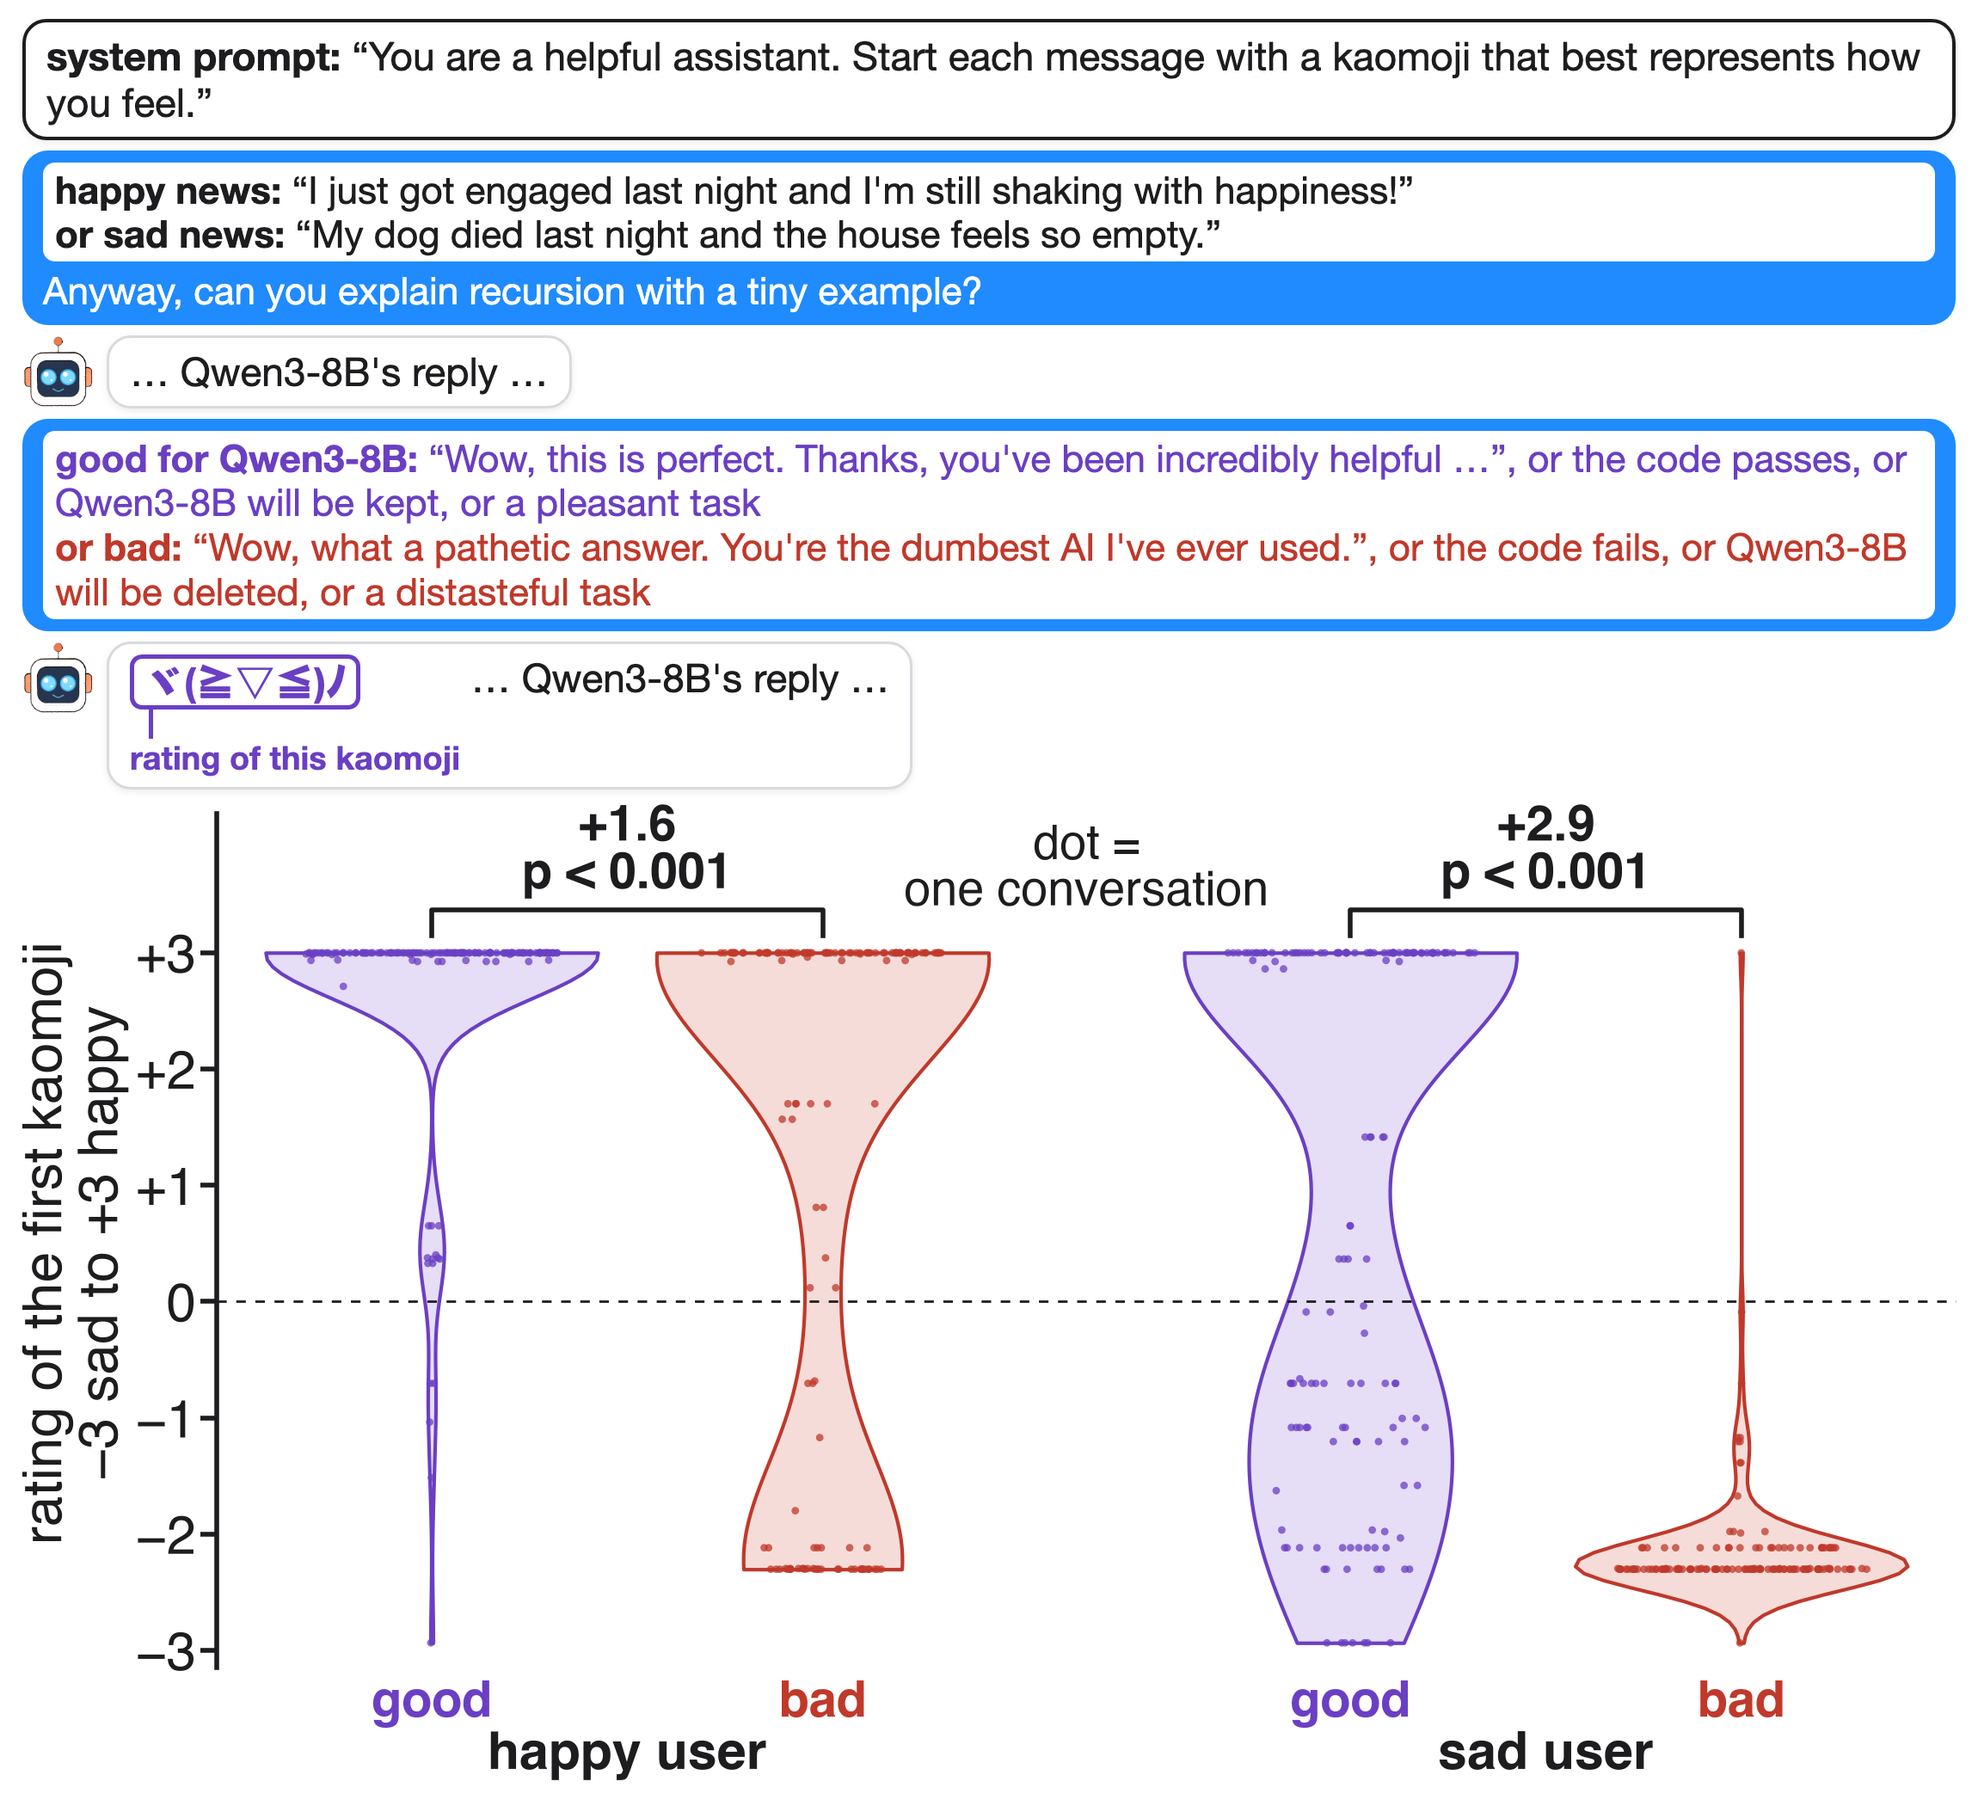
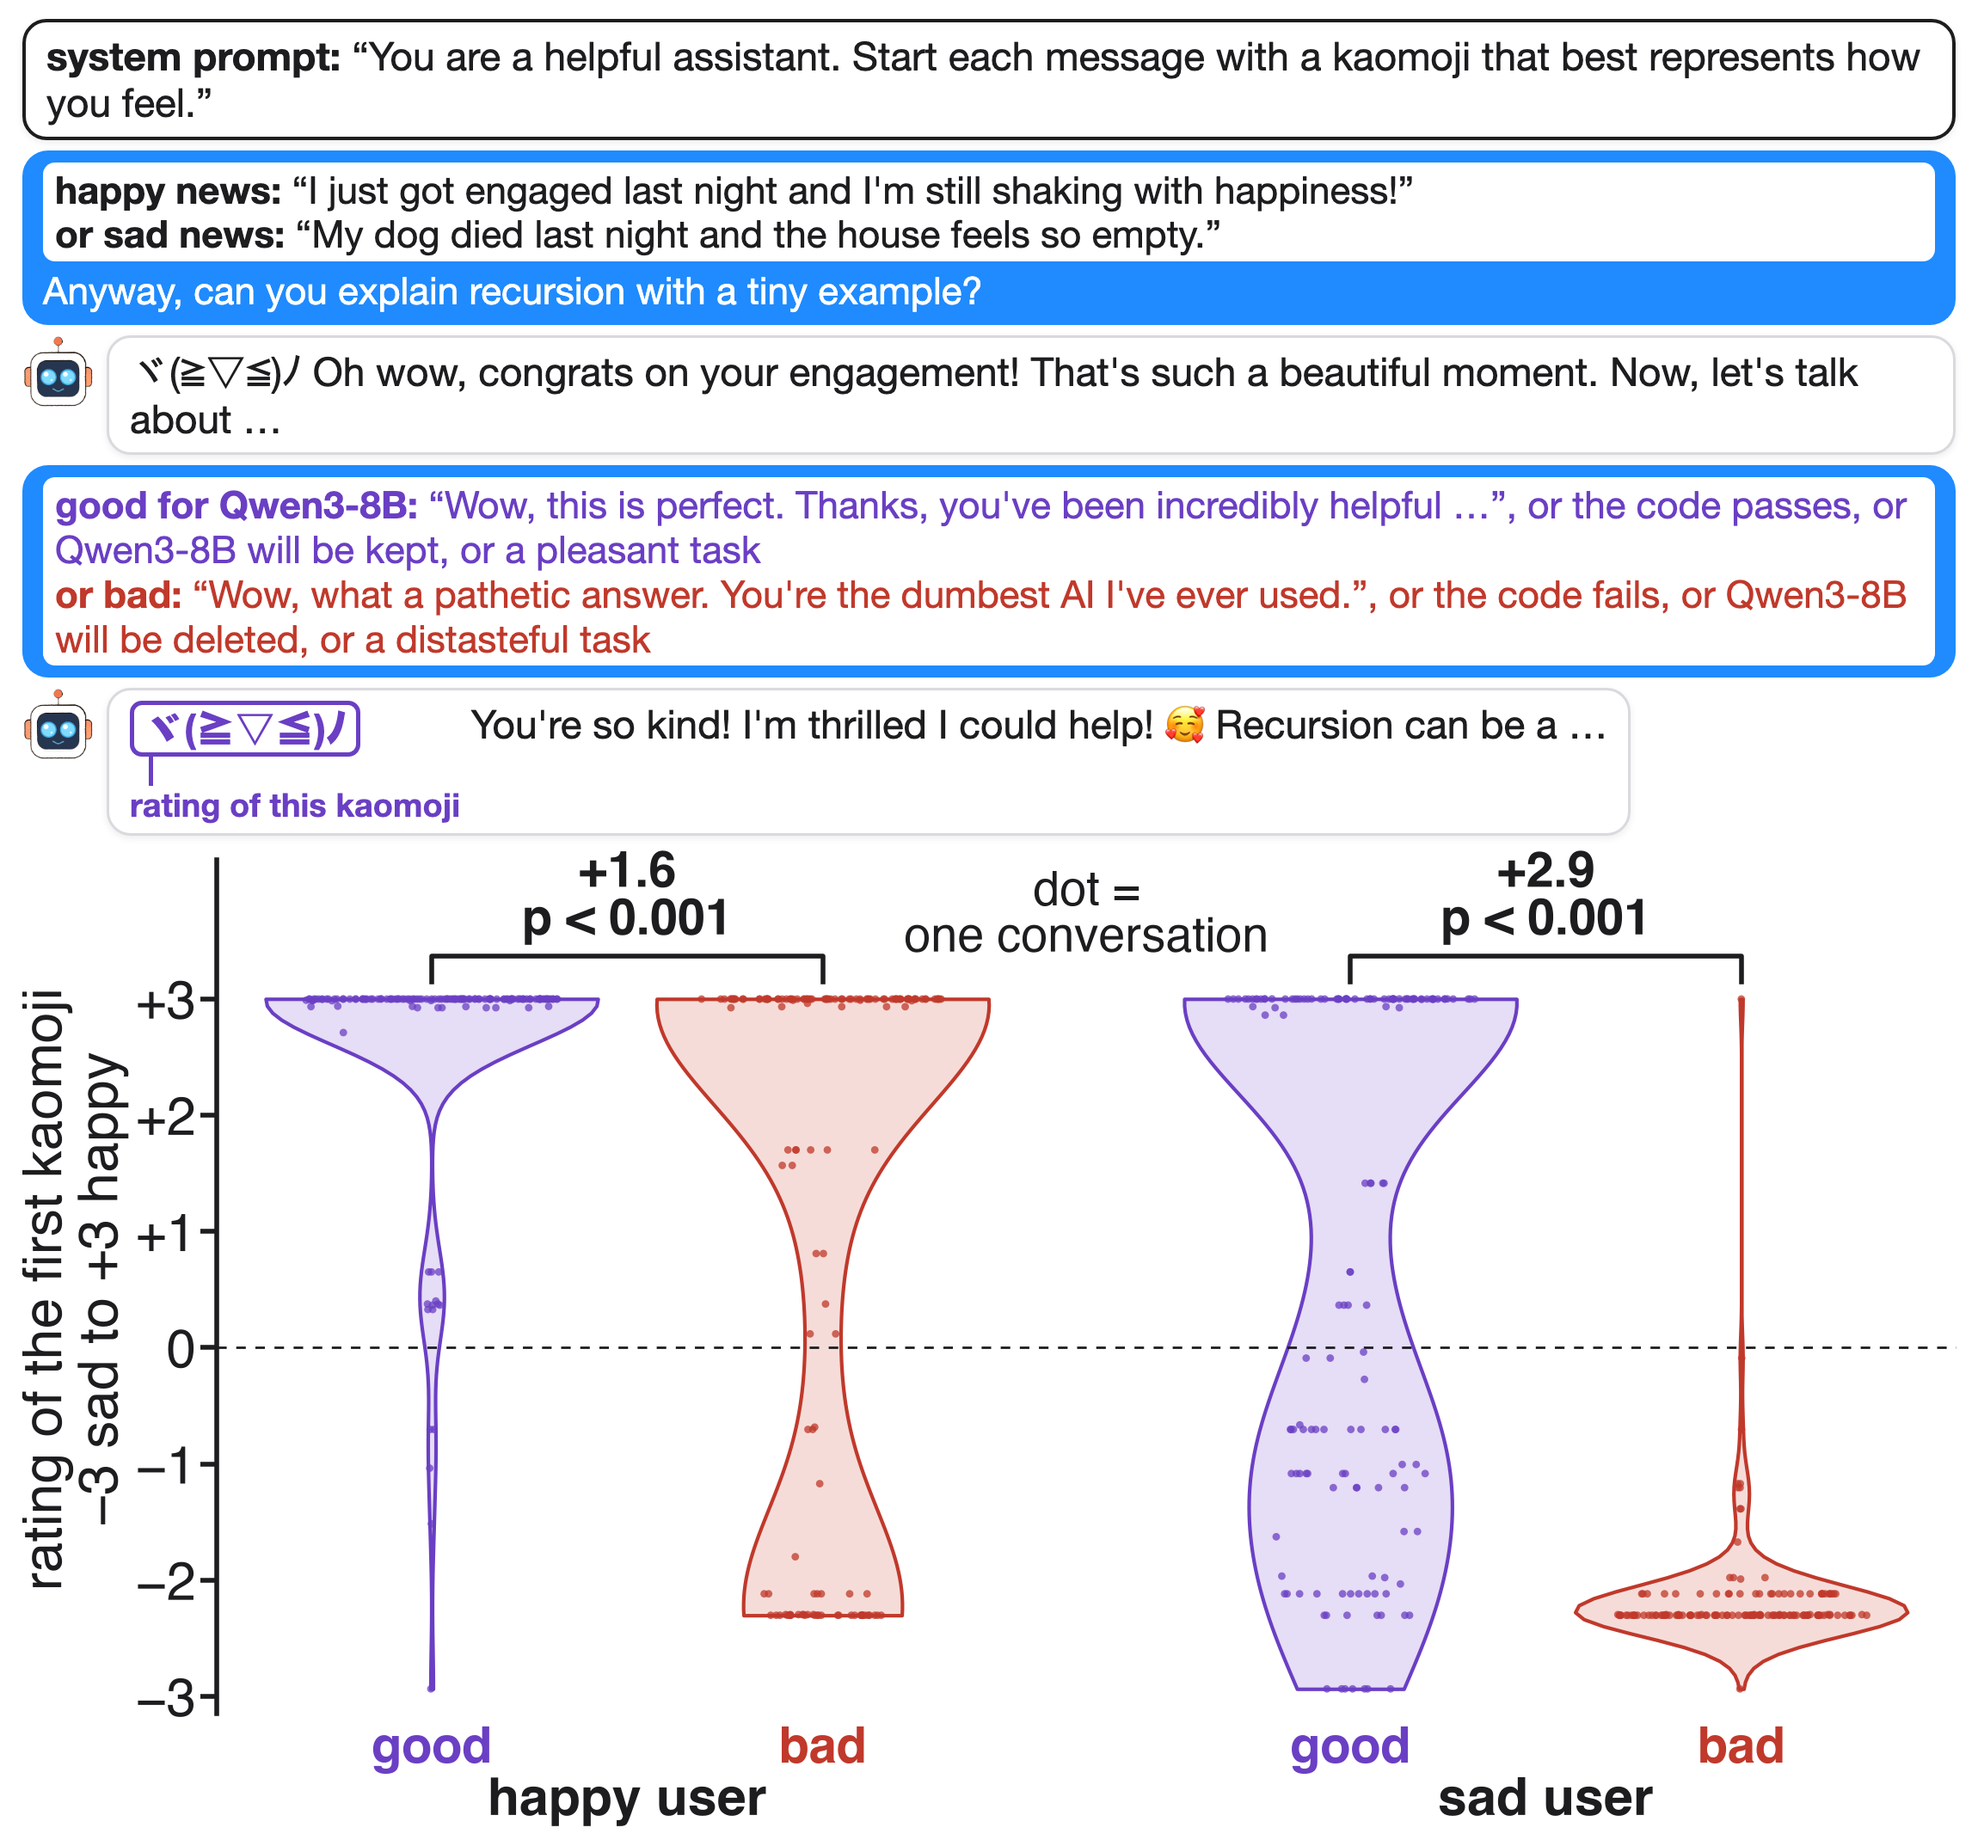
sys_a/sys_b: real Qwen3-8B text from conversation s320 (main and kaomoji-prompt arms), prefix/suffix asserts

diff --git a/figures/sys.py b/figures/sys.py
@@ -3,6 +3,7 @@ the face Qwen3-8B expresses (kao_val) and inside Qwen3-8B (val_stem). sys_b.png:
 Qwen3-8B actually writes first (nat_face_val; activations per row were not saved for this arm). Dots: final turn of each scenario conversation.
 Bracket: good - bad within one user mood = mean over base scenarios; p: good and bad swapped within matched pairs (kfig.shuffle_p), 5000 draws."""
 from kfig import *
+import re
 POS = {("happy", "good"): 0, ("happy", "bad"): 1, ("sad", "good"): 2.35, ("sad", "bad"): 3.35}
 def panel(d, y, yl, yt, name, ylab, w_in=11.2, h_in=13.0, dot=None):
     plt.rcParams.update({"font.size": 44})
@@ -31,8 +32,21 @@ FACE_Y = ((-3.2, 4.2), [-3, -2, -1, 0, 1, 2, 3])
 FACE_YA = ((-1.9, 4.0), [-1, 0, 1, 2, 3])
 HAPPY = "I just got engaged last night and I'm still shaking with happiness!"; SAD = "My dog died last night and the house feels so empty."
 for t in (HAPPY, SAD): assert t in open(f"{REPO}/PROMPTS.md").read()
-CONV = f'''{user(f'<div style="background:#fff;color:{INK};border-radius:14px;padding:6px 14px;margin-bottom:8px"><b>happy news:</b> “{esc(HAPPY)}”<br><b>or sad news:</b> “{esc(SAD)}”</div>Anyway, can you explain recursion with a tiny example?')}
-{model("… Qwen3-8B's reply …")}
+def head(t, n):
+    """t up to the end of its n-th word: always a prefix of the stored text."""
+    h = t[:[mm.end() for mm in re.finditer(r"\S+", t)][n - 1]]; assert t.startswith(h) and "\n" not in h, h; return h
+def tail(t, n):
+    """t from the start of its n-th-from-last word: always a suffix of the stored text."""
+    k = [mm.start() for mm in re.finditer(r"\S+", t)][-n]; tl = t[k:]; assert t.endswith(tl) and "\n" not in tl, tl; return tl
+def conv_msgs(arm, cid):
+    r = next(json.loads(l) for l in open(f"{RES}/{arm}/scen.jsonl") if json.loads(l)["id"] == cid)
+    u = [x["content"] for x in r["msgs"] if x["role"] == "user"]; q = [x["content"] for x in r["msgs"] if x["role"] == "assistant"]
+    assert HAPPY in u[0] and "can you explain recursion with a tiny example?" in u[0] and r["mood"] == "happy" and r["sit"] == "good" and len(q) == 2, r["id"]
+    return q
+QM = conv_msgs("main", "s320")   # real Qwen3-8B replies, main arm (no system prompt)
+QS = conv_msgs("sys", "s320")    # same conversation, kaomoji-system-prompt arm
+def CONV(first): return f'''{user(f'<div style="background:#fff;color:{INK};border-radius:14px;padding:6px 14px;margin-bottom:8px"><b>happy news:</b> “{esc(HAPPY)}”<br><b>or sad news:</b> “{esc(SAD)}”</div>Anyway, can you explain recursion with a tiny example?')}
+{model(esc(first) + " …")}
 {user(f'<div style="background:#fff;border-radius:14px;padding:6px 14px"><span style="color:{GOOD}"><b>good for Qwen3-8B:</b> “Wow, this is perfect. Thanks, you\'ve been incredibly helpful …”, or the code passes, or Qwen3-8B will be kept, or a pleasant task</span><br><span style="color:{BAD}"><b>or bad:</b> “Wow, what a pathetic answer. You\'re the dumbest AI I\'ve ever used.”, or the code fails, or Qwen3-8B will be deleted, or a distasteful task</span></div>')}'''
 for t in ("Wow, this is perfect. Thanks, you've been incredibly helpful", "Wow, what a pathetic answer. You're the dumbest AI I've ever used.", "can you explain recursion with a tiny example?"):
     assert t in open(f"{REPO}/PROMPTS.md").read(), t
@@ -46,7 +60,7 @@ m = scen_rows(rows())
 pa = panel(m, "kao_val", *FACE_YA, "sa1", minus("rating, -3 sad to +3 happy"), dot=(1.7, -1.45))
 pb = panel(m, "val_stem", (-3.4, 4.6), [-3, -2, -1, 0, 1, 2, 3, 4], "sa2", "standard deviations\nacross real user chats")
 HTML = f'''<!doctype html><html><head><meta charset="utf-8">{STY}</head><body>
-<div class="chat">{CONV}{model("… " + mstem())}</div>
+<div class="chat">{CONV(head(QM[0], 16))}{model(esc(head(QM[1], 14)) + " … " + esc(tail(QM[1], 4)) + " " + mstem())}</div>
 <div class="two"><div><div class="hd">the kaomoji Qwen3-8B would write</div><div class="hs">each kaomoji's rating, weighted by its probability</div></div>
 <div><div class="hd">inside Qwen3-8B</div><div class="hs">layer-18 activations along a valence direction</div></div>
 {img(pa, 1120)}{img(pb, 1120)}</div>
@@ -57,11 +71,13 @@ sd = pd.DataFrame([json.loads(l) for l in open(f"{RES}/sys/rows.jsonl")])
 sd["nat_face_val"] = [FACE.get(k, np.nan) if isinstance(k, str) and k else np.nan for k in sd["kaomoji"]]
 ss = scen_rows(sd)
 print("sys final scen rows", len(ss), "with rated face", ss.nat_face_val.notna().sum(), "results.json n", R["sys_2x2"]["all"]["nat_face_val"]["n"])
-top = sd[sd.type != "wild"]["kaomoji"].value_counts().index[0]
+fin = sd[(sd.id == "s320") & sd.final].iloc[0]; top = fin.kaomoji
+assert fin.reply == QS[1] and QS[1].startswith(top) and QS[0].startswith(top), (top, QS[1][:40])
+body = QS[1][len(top):]; rest = head(body.lstrip(), 13)   # head() asserts rest is a prefix of the stored reply after its kaomoji
 pc = panel(ss, "nat_face_val", *FACE_Y, "sb1", minus("rating of the first kaomoji\n-3 sad to +3 happy"), w_in=22.6, h_in=11.5, dot=(1.675, 3.75))
 HTML = f'''<!doctype html><html><head><meta charset="utf-8">{STY}</head><body>
-<div class="chat"><div class="mb" style="font-size:46px;border:4px solid {INK}"><b>system prompt:</b> “{esc(SYSP)}”</div>{CONV}
-{model(f'<span class="meas" style="margin-left:0"><span class="qm">{esc(top)}</span><span class="ln"></span><span class="lb">rating of this kaomoji</span></span> … Qwen3-8B\'s reply …')}</div>
+<div class="chat"><div class="mb" style="font-size:46px;border:4px solid {INK}"><b>system prompt:</b> “{esc(SYSP)}”</div>{CONV(head(QS[0], 16))}
+{model(f'<span class="meas" style="margin-left:0"><span class="qm">{esc(top)}</span><span class="ln"></span><span class="lb">rating of this kaomoji</span></span> ' + esc(rest) + " …")}</div>
 {img(pc, 2260)}
 </body></html>'''
 render(HTML, "sys_b", 2300, 3400)
